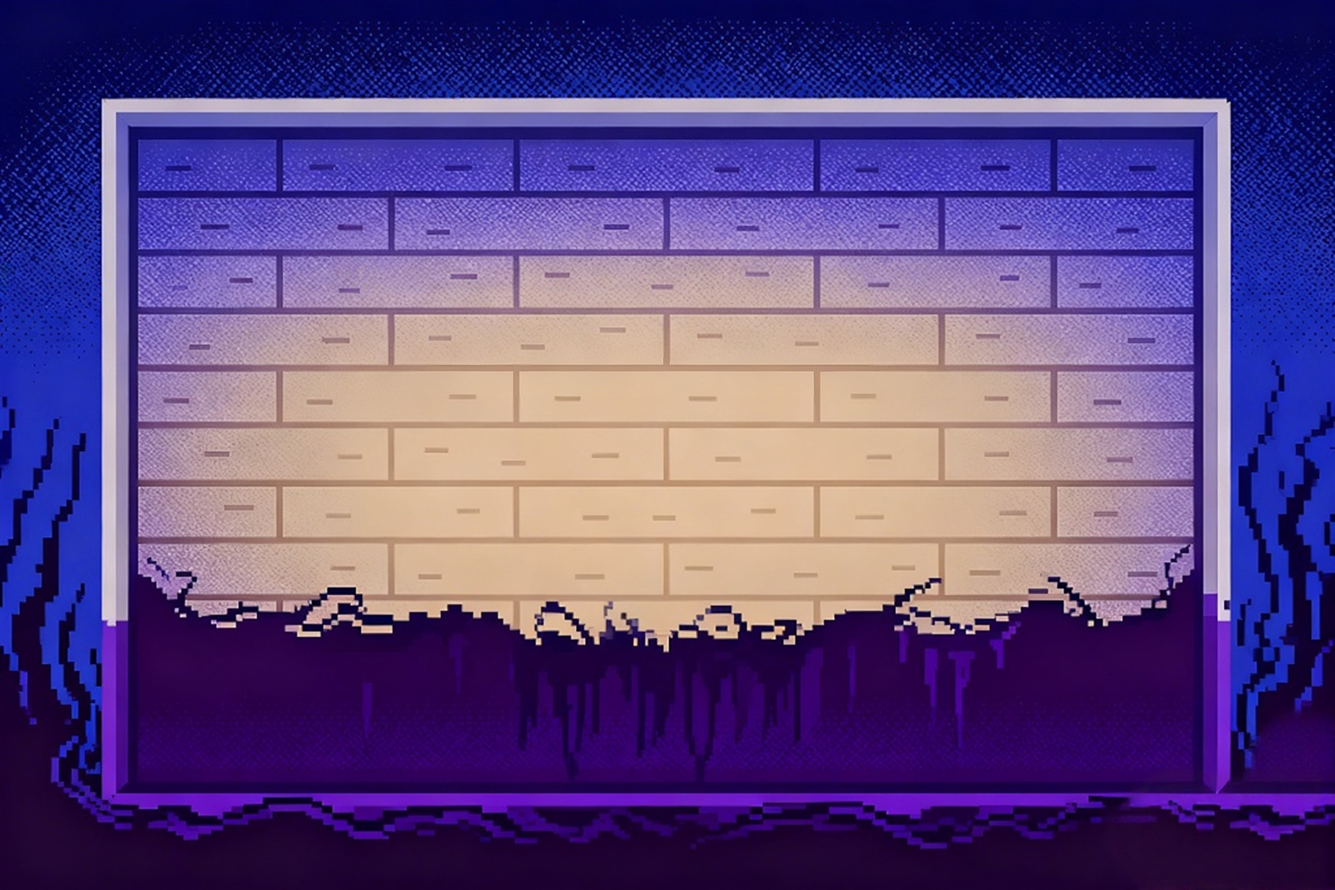
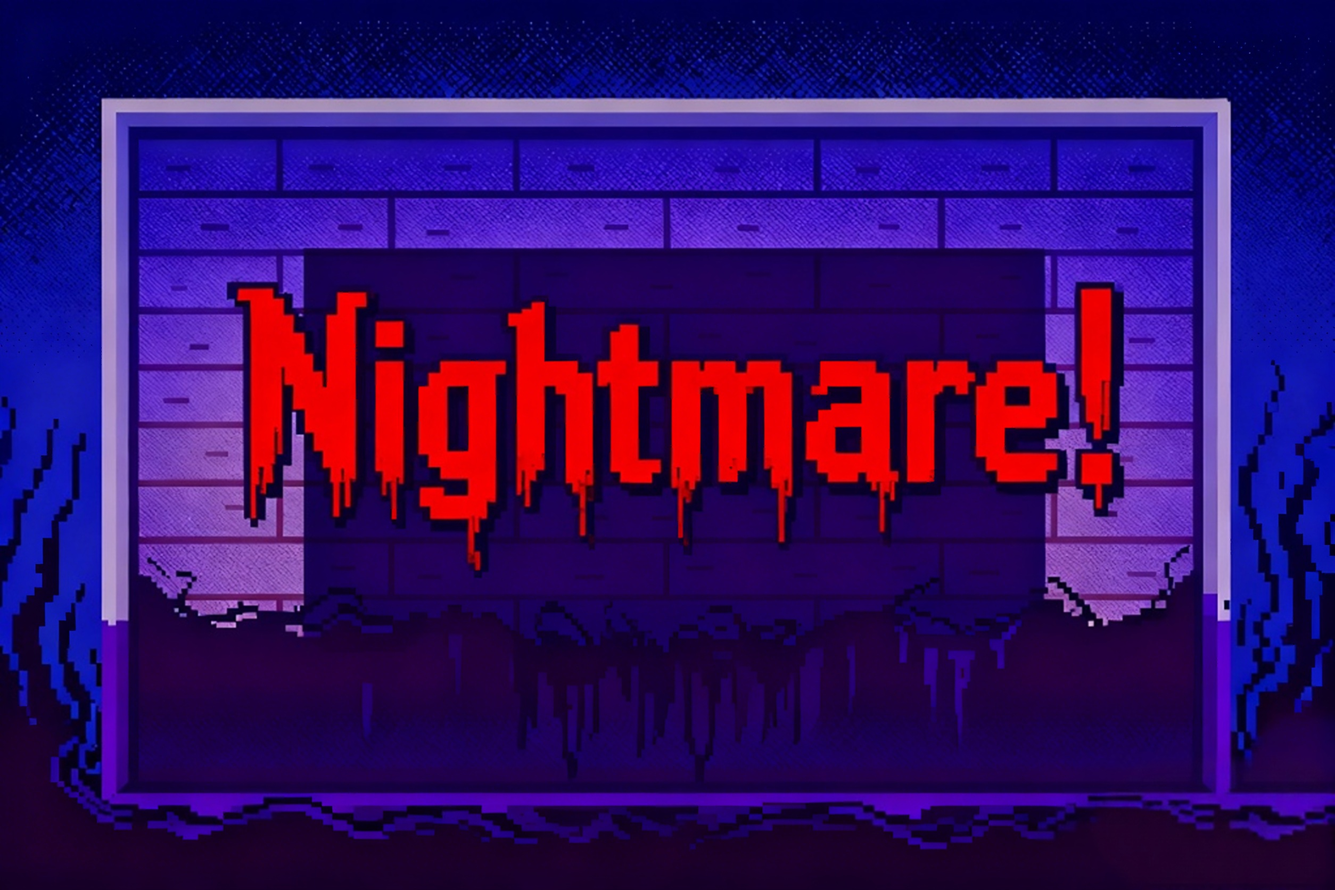
梦魇降临

diff --git a/src/world/level.cpp b/src/world/level.cpp
@@ -1704,12 +1704,10 @@ void Level::onEnemyDying(Enemy* enemy) {
             } });
     }
 
-    // 如果死亡的是NightmareBoss，恢复原始背景（3秒渐变）
+    // 如果死亡的是NightmareBoss，切换到map1背景（3秒渐变）
     if (dynamic_cast<NightmareBoss*>(enemy)) {
-        // 如果有原始路径则恢复，否则不处理
-        if (!m_originalBackgroundPath.isEmpty()) {
-            fadeBackgroundTo(m_originalBackgroundPath, 3000);
-        }
+        // 梦魇完全死亡，背景变为map1
+        fadeBackgroundTo(QString("assets/background/startRoom.png"), 3000);
     }
 
     for (Room* r : m_rooms) {
